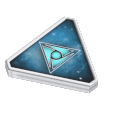
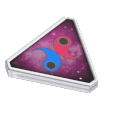
DS: add mortheus

Changed region(s): [[0.0938, 0.1562, 0.7188, 0.625]]

diff --git a/src/discordant-stars/factions/mortheus.js b/src/discordant-stars/factions/mortheus.js
@@ -1,0 +1,118 @@
+const { world, refPackageId } = require("@tabletop-playground/api");
+
+const localeStrings = {
+  "faction.abbr.mortheus": "Mortheus",
+  "faction.full.mortheus": "The Glimmer of Mortheus",
+  "planet.biaheo": "Biaheo",
+  "planet.empero": "Empero",
+  "technology.name.fractal_plating": "Fractal Plating",
+  "technology.name.fabrication_grid": "Fabrication Grid",
+  "unit.flagship.particle_sieve": "Particle Sieve",
+  "unit.mech.MECHID": "MECH",
+};
+
+
+const factions = [{
+  faction: "mortheus",
+  abilities: [
+      "facsimile",
+      "illusory_presence",
+  ],
+  commodities: 3,
+  home: 3207,
+  leaders: {
+      agents: ["walik"],
+      commanders: ["komat"],
+      heroes: ["bayan"],
+  },
+  promissoryNotes: ["secrets_of_the_weave"],
+  //icon: "discordant-stars/faction-icons/mortheus.png",
+  source: "homebrew.discordant_stars",
+  startingTech: ["dark_energy_tap", "sarween_tools"],
+  startingUnits: {
+      dreadnought: 1,
+      carrier: 1,
+      destroyer: 1,
+      fighter: 2,
+      infantry: 3,
+      space_dock: 1,
+  },
+  techs: ["fractal_plating", "fabrication_grid"],
+  units: [
+      "particle_sieve",
+      "duuban",
+  ],
+  packageId: refPackageId,
+}];
+
+ const nsidToTemplateId = {
+    "sheet.faction:homebrew.discordant_stars/mortheus":
+      "4A4C72994D754F67E9587E913950D35A",
+    "tile.system:homebrew.discordant_stars/3207":
+      "615DC76F745F4D668B502F5DDB91D27D",
+    "token.command:homebrew.discordant_stars/mortheus":
+      "8E5E183E4B1DC7DA0B07809C635C4DB7",
+    "token.control:homebrew.discordant_stars/mortheus":
+      "FD7834BC44A641B41E5DBD83E4C8AF58",
+};
+
+const technologies = [{
+  localeName: "technology.name.fractal_plating",
+  cardNsid:
+    "card.technology.COLOR.mortheus:homebrew.discordant_stars/fractal_plating",
+  type: "Red",
+  requirements: { Red: 2 },
+  source: "homebrew.discordant_stars",
+  faction: "mortheus",
+},{
+  localeName: "technology.name.fabrication_grid",
+  cardNsid:
+    "card.technology.yellow.mortheus:homebrew.discordant_stars/fabrication_grid",
+  type: "Yellow",
+  requirements: { Yellow: 2 },
+  source: "homebrew.discordant_stars",
+  faction: "mortheus",
+},
+];
+
+const systems = [
+  {
+    tile: 3207,
+    source: "homebrew.discordant_stars",
+    home: true,
+    planets: [
+      { localeName: "planet.biaheo", resources: 3, influence: 0 },
+      { localeName: "planet.empero", resources: 0, influence: 3 },
+    ],
+  },
+];
+
+const unitAttrs = [
+  {
+    unit: "flagship",
+    upgradeLevel: 1,
+    localeName: "unit.flagship.particle_sieve",
+    triggerNsid:
+      "card.technology.unit_upgrade.mortheus:franken.discordant_stars/particle_sieve",
+    spaceCombat: { dice: 2, hit: 7 },
+  },
+  {
+    unit: "mech",
+    upgradeLevel: 1,
+    localeName: "unit.mech.duuban",
+    triggerNsid: "card.leader.mech.mortheus:homebrew.discordant_stars/duuban",
+  },
+];
+
+const unitModifiers = [];
+
+console.log("DISCORDANT STARS ADDING MORTHEUS");
+world.TI4.homebrew.inject({
+  localeStrings,
+  factions,
+  nsidToTemplateId,
+  systems,
+  technologies,
+  unitAttrs,
+  unitModifiers,
+});

diff --git a/src/discordant-stars/factions-all.js b/src/discordant-stars/factions-all.js
@@ -37,6 +37,7 @@ require("./factions/kollecc");
 require("./factions/kortali");
 require("./factions/lizho");
 require("./factions/mirveda");
+require("./factions/mortheus");
 require("./factions/olradin");
 require("./factions/rohdhna");
 require("./factions/zealots");
